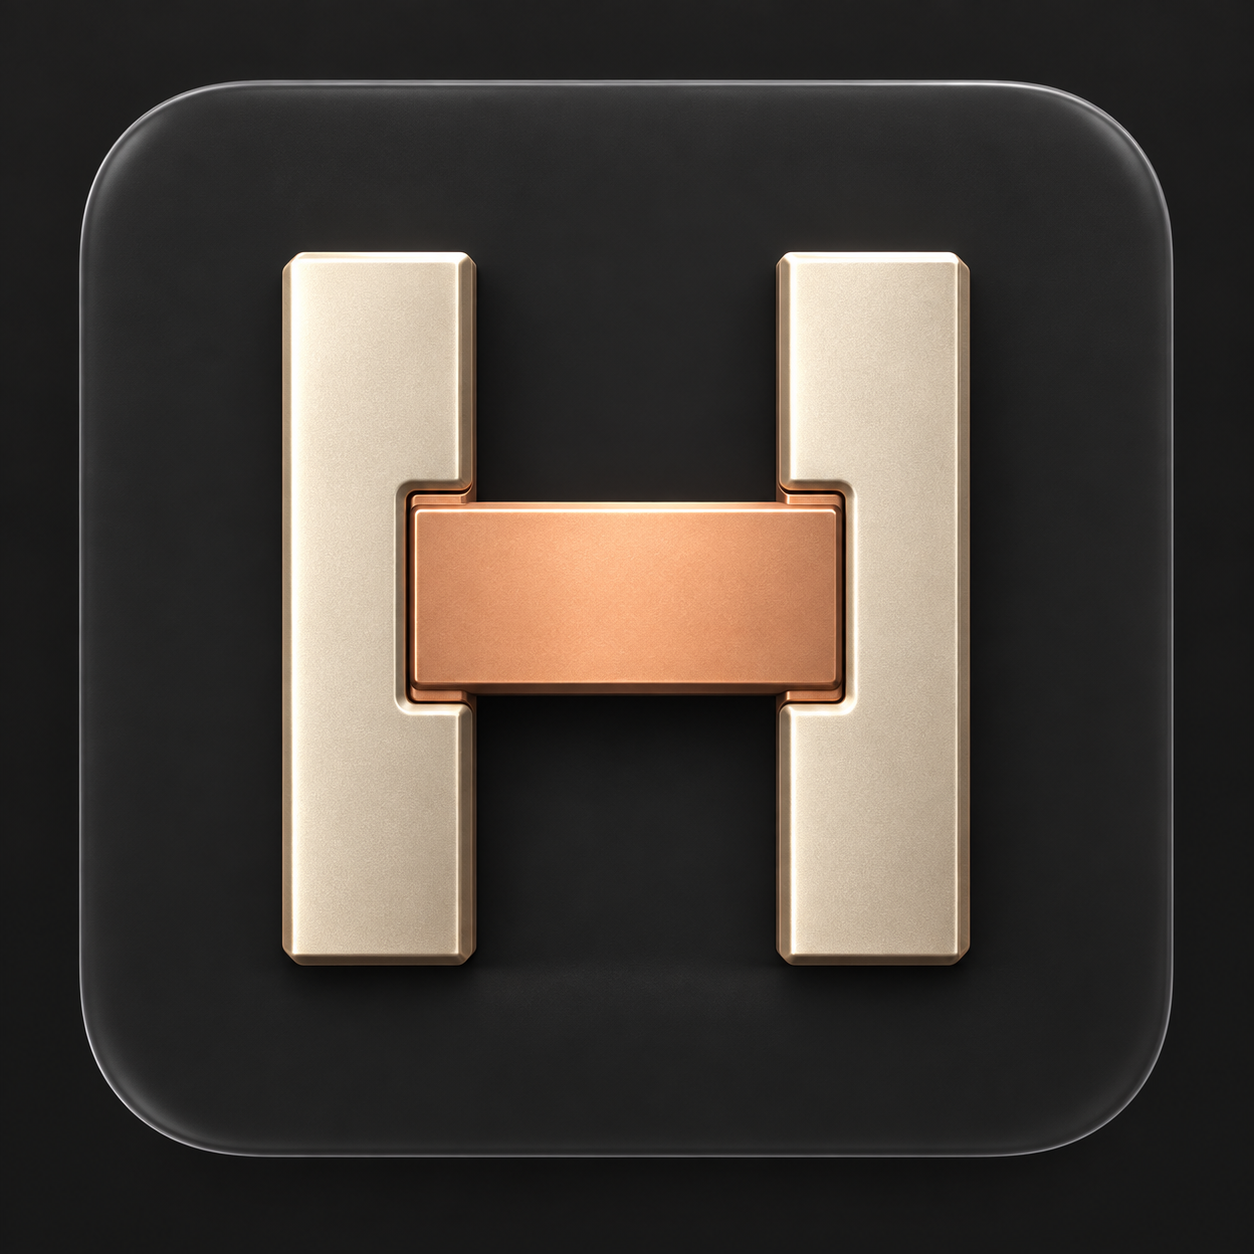
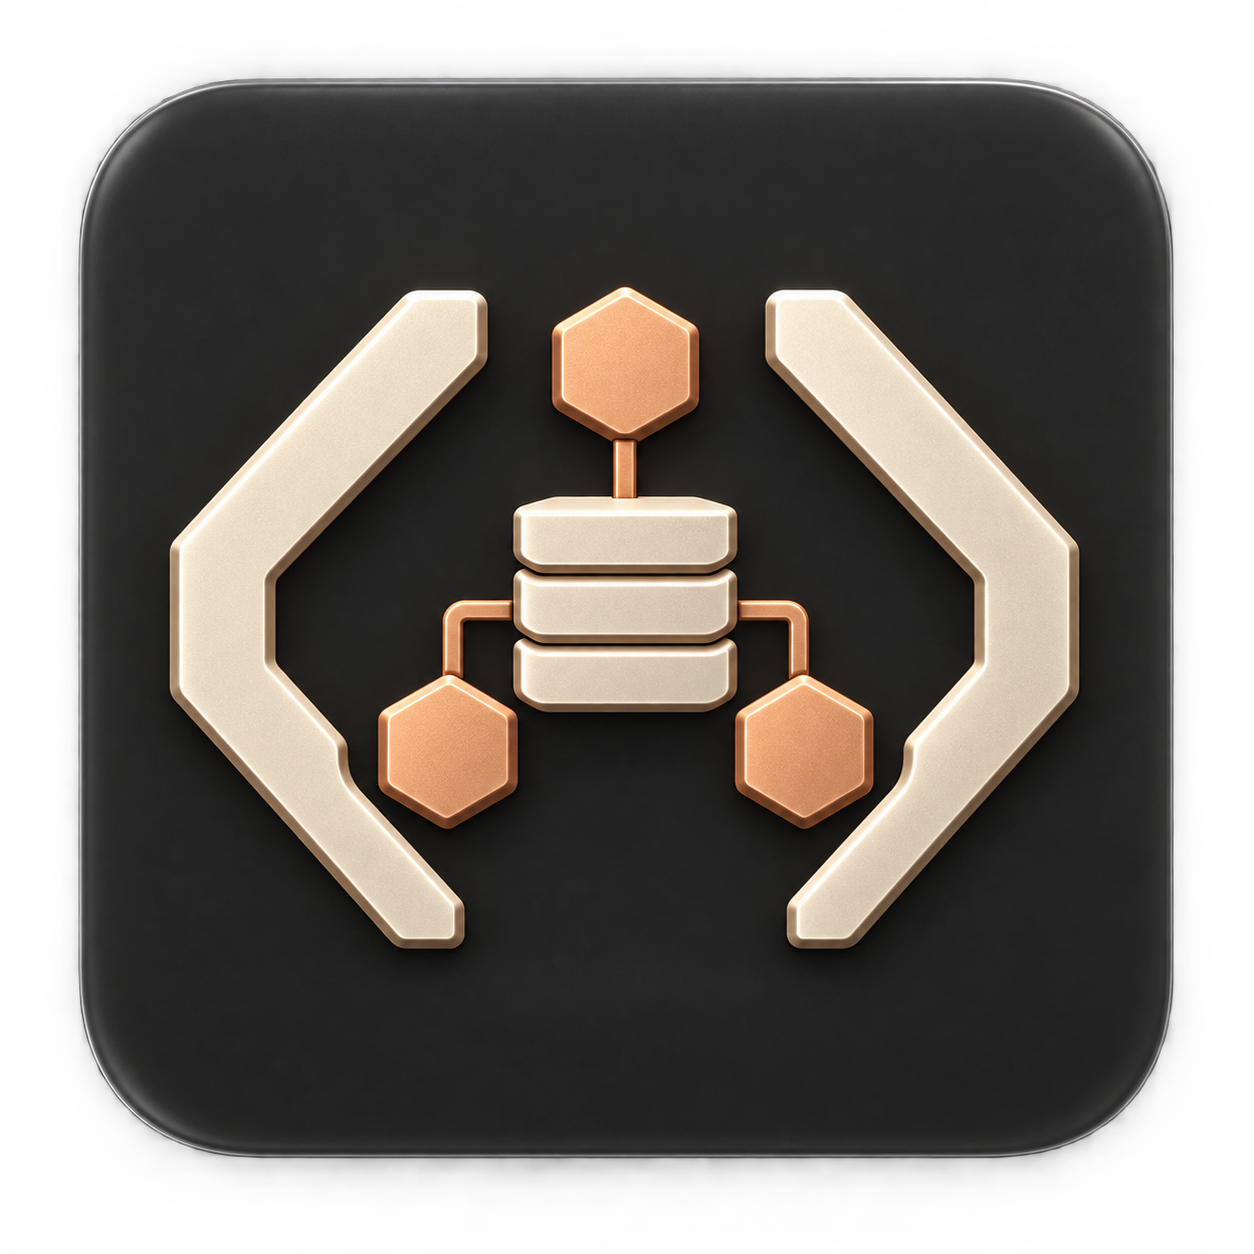
Represent coordinated agents and shared memory in HAE identity [skip ci]

diff --git a/assets/brand/README.md b/assets/brand/README.md
@@ -1,5 +1,5 @@
 # HAE identity
 
-The mark is an H made from two warm ivory rails joined by a copper bridge, representing continuity between agents. The dark tile follows the project’s charcoal and copper palette. The icon was generated for this project on 2026-10-01; no third-party brand asset was used.
+The symbol represents the toolkit’s workflow: three copper agent modules coordinate through a shared layered memory core, framed by ivory code brackets. Charcoal, warm ivory and copper carry the identity. The mark communicates engineering, coordination and persistence without relying on the project’s initials.
 
-Use the supplied PNG without stretching. This artwork is provided under the repository’s MIT license to the extent applicable; no trademark clearance or exclusivity is asserted.
+The icon was generated for this project on 2026-10-01. No third-party brand asset was used. Use the supplied PNG without stretching. This artwork is provided under the repository’s MIT license to the extent applicable; no trademark clearance or exclusivity is asserted.

diff --git a/README.md b/README.md
@@ -1,4 +1,4 @@
-<p><img src="assets/brand/hae-icon.png" width="112" height="112" alt="Hyper Agentic Engineering icon: ivory rails joined by a copper bridge" /></p>
+<p><img src="assets/brand/hae-icon.png" width="112" height="112" alt="Hyper Agentic Engineering icon: connected agents sharing memory inside code brackets" /></p>
 
 # Hyper Agentic Engineering
 
